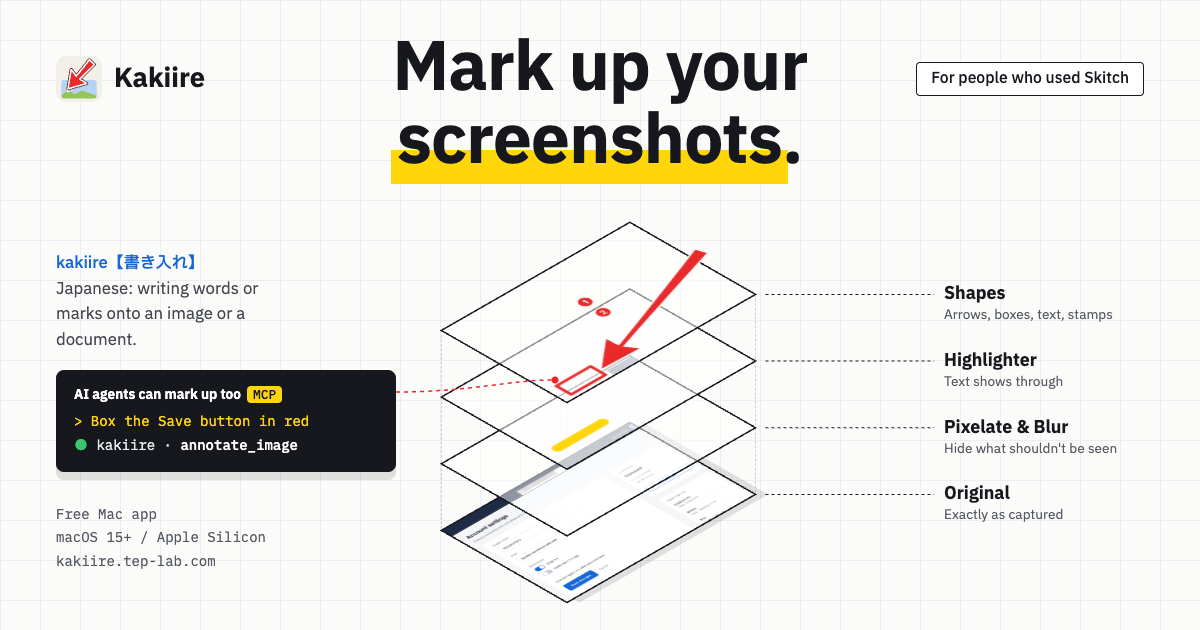
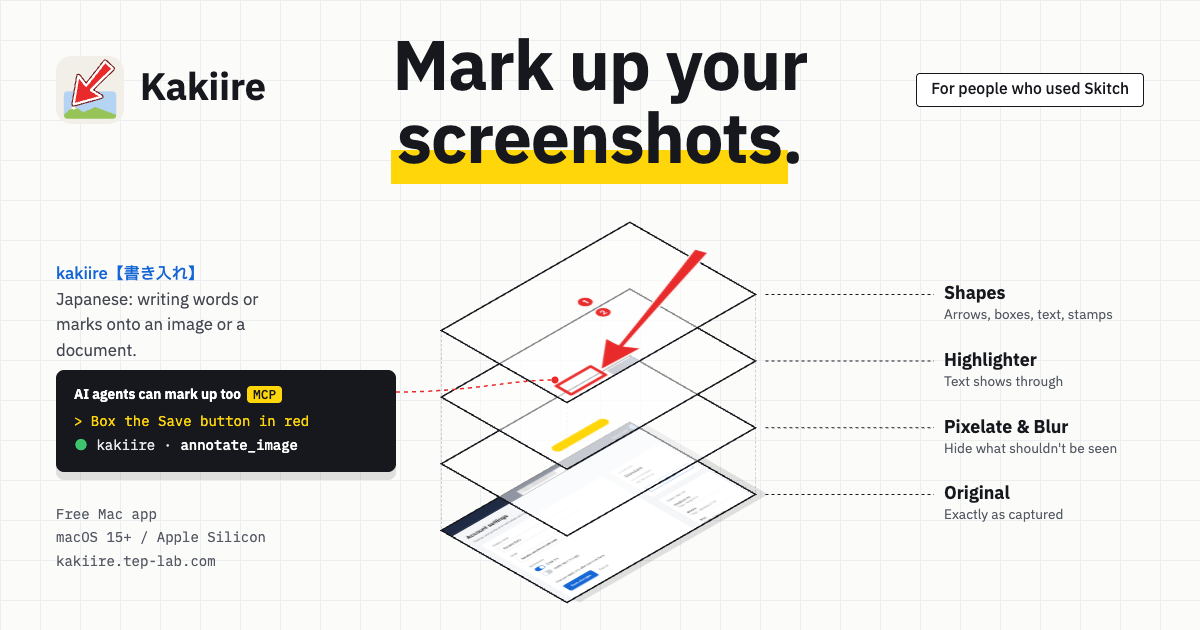
OGP 画像のロゴと名前を大きくする

Changed region(s): [[0.0308, 0.3921, 0.2158, 0.573], [0.7708, 0.0905, 0.9558, 0.181], [0.0308, 0.0905, 0.2158, 0.2111]]

diff --git a/scripts/og/og.html b/scripts/og/og.html
@@ -32,8 +32,8 @@
 
   .og-side { position: absolute; top: 56px; bottom: 56px; display: flex; flex-direction: column; justify-content: space-between; }
   .og-left { left: 56px; width: 230px; }
-  .og-brand { display: flex; align-items: center; gap: 12px; font-size: 26px; font-weight: 700; }
-  .og-brand img { width: 46px; height: 46px; }
+  .og-brand { display: flex; align-items: center; gap: 16px; font-size: 36px; font-weight: 700; }
+  .og-brand img { width: 68px; height: 68px; }
   .og-left .dict { font-size: 16px; line-height: 1.6; }
   .og-left .dict__word { display: block; }
   .og-meta { margin: 0; font-family: var(--mono); font-size: 14px; line-height: 1.7; color: var(--muted); }
@@ -43,7 +43,7 @@
   .og-label { position: absolute; left: 944px; width: 200px; display: flex; flex-direction: column; }
   .og-label b { font-size: 17px; font-weight: 700; line-height: 1.4; }
   /* 右上。左上の名前と高さを揃え、右の余白を埋める */
-  .og-tag { position: absolute; right: 56px; top: 62px; font-size: 15px; }
+  .og-tag { position: absolute; right: 56px; top: 73px; font-size: 15px; }
   .og-label span { font-size: 13px; line-height: 1.4; color: var(--muted); }
 
   /* 左の空きに、AI から頼む例を置く。層の図の左の角(x 約 440)にかからない幅にする */
